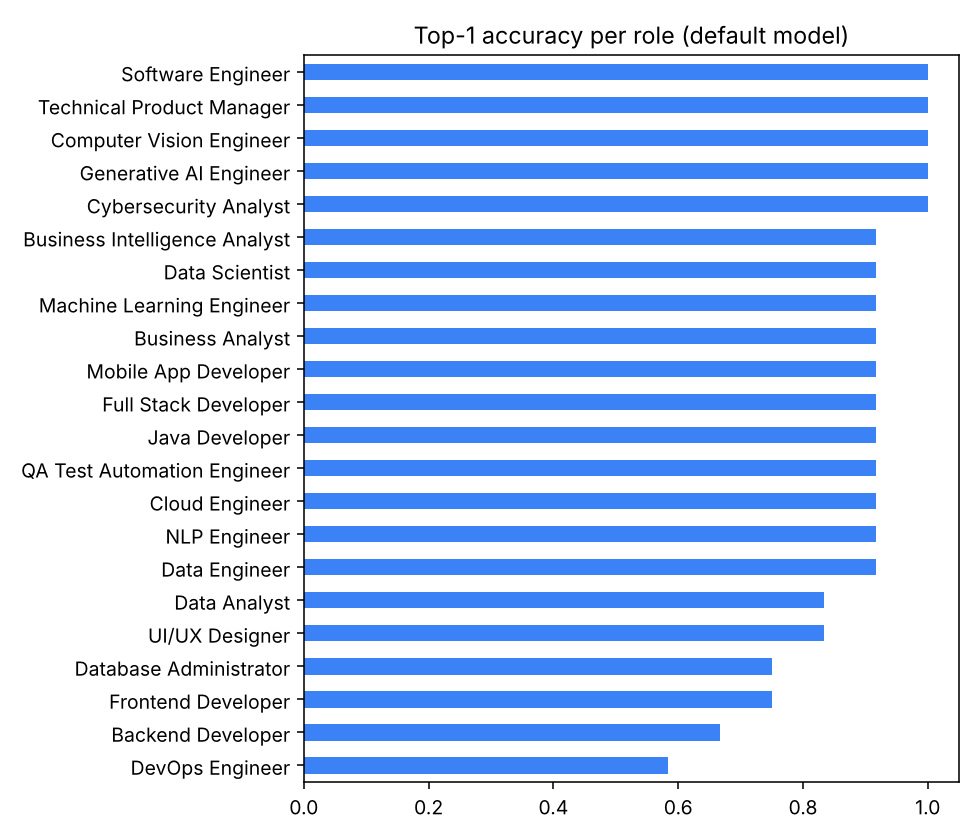
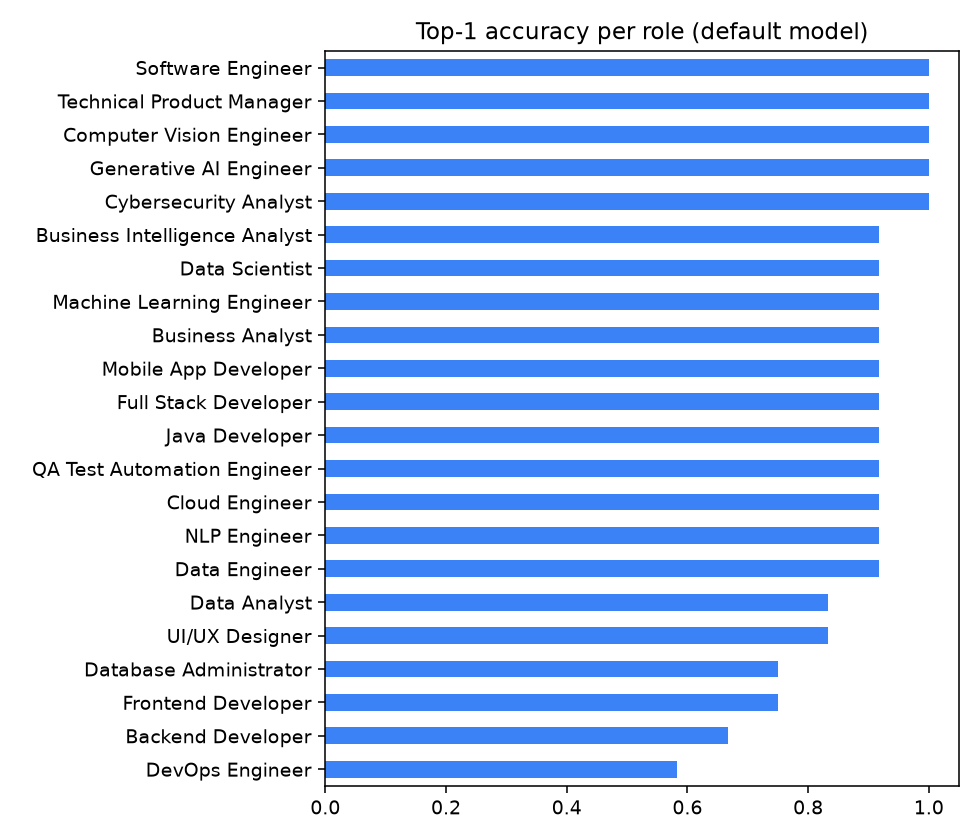
Fix Gemini empty response

Changed region(s): [[0.0306, 0.031, 0.9796, 0.9905]]

diff --git a/src/llm_client.py b/src/llm_client.py
@@ -5,6 +5,7 @@ environment variables / a local .env file, never from code, and are never printe
 Transient failures (rate limits, timeouts, network, 5xx) are retried with exponential backoff.
 """
 import os
+import re
 import time
 
 from dotenv import load_dotenv
@@ -67,21 +68,43 @@ def _call_gemini(key, model, system, messages, max_tokens):
     from google.genai import types
     client = genai.Client(api_key=key)
     contents = [types.Content(role="user" if m["role"] == "user" else "model", parts=[types.Part(text=m["content"])]) for m in messages]
+    # Newer Gemini models "think" first, and thinking tokens count against the output limit. Without extra
+    # headroom a small limit can be used up entirely by thinking, leaving an empty answer.
     resp = client.models.generate_content(model=model, contents=contents,
-                                          config=types.GenerateContentConfig(system_instruction=system, max_output_tokens=max_tokens))
-    return resp.text or ""
+                                          config=types.GenerateContentConfig(system_instruction=system, max_output_tokens=max_tokens + 2048))
+    text = getattr(resp, "text", None)
+    if not text:
+        candidates = getattr(resp, "candidates", None) or []
+        reason = getattr(candidates[0], "finish_reason", None) if candidates else None
+        block = getattr(getattr(resp, "prompt_feedback", None), "block_reason", None)
+        raise LLMError(f"Gemini returned no text (finish reason: {reason or 'unknown'}{', blocked: ' + str(block) if block else ''}). "
+                       "Try again, or set LLM_MODEL to a different Gemini model.")
+    return text
 
 
 ADAPTERS = {"anthropic": _call_anthropic, "openai": _call_openai, "gemini": _call_gemini}
 PACKAGES = {"anthropic": "anthropic", "openai": "openai", "gemini": "google-genai"}
 
 
+def _detail(exc: Exception, key: str = "") -> str:
+    """Short error description with any API key removed."""
+    text = str(exc).replace("\n", " ")[:220]
+    if key:
+        text = text.replace(key, "***")
+    return re.sub(r"AIza[0-9A-Za-z_-]{10,}|sk-[0-9A-Za-z_-]{10,}", "***", text)
+
+
 def classify_error(exc: Exception) -> str:
-    """'auth' (never retry), 'retry' (transient) or 'fatal'."""
+    """'auth' (never retry), 'model' (wrong/retired model name), 'retry' (transient) or 'fatal'."""
     name = type(exc).__name__.lower()
     code = getattr(exc, "status_code", None) or getattr(exc, "code", None)
+    msg = str(exc).lower()
     if code in (401, 403) or any(k in name for k in ("authentication", "permissiondenied", "unauthenticated")):
         return "auth"
+    if code == 400 and ("api key" in msg or "api_key" in msg):          # Gemini reports a bad key as HTTP 400
+        return "auth"
+    if code == 404 or "not found" in msg or "no longer available" in msg or "deprecated" in msg:
+        return "model"
     if code in (429, 500, 502, 503, 504, 529) or any(k in name for k in ("ratelimit", "timeout", "connection", "unavailable", "overloaded", "internalserver", "servererror")):
         return "retry"
     return "fatal"
@@ -108,9 +131,12 @@ def ask(system: str, messages: list, max_tokens: int = 700) -> str:
             kind = classify_error(exc)
             if kind == "auth":
                 raise LLMError(f"Authentication failed for {prov}: please check your API key.") from None
+            if kind == "model":
+                raise LLMError(f"Model '{model}' was not found or has been retired. Set LLM_MODEL in your .env file to a current model name "
+                               f"from the {prov} model list. ({_detail(exc, key)})") from None
             if kind == "retry" and attempt < config.MAX_LLM_RETRIES:
                 time.sleep(2 ** attempt)               # 2 s, then 4 s
                 continue
             if kind == "retry":
-                raise LLMError(f"The {prov} service is unavailable or rate-limited. Please try again later.") from None
-            raise LLMError(f"The {prov} request failed ({type(exc).__name__}).") from None
+                raise LLMError(f"The {prov} service is unavailable or rate-limited (free plans have strict limits). Please wait a minute and try again. ({_detail(exc, key)})") from None
+            raise LLMError(f"The {prov} request failed: {type(exc).__name__}: {_detail(exc, key)}") from None

diff --git a/main.py b/main.py
@@ -19,7 +19,7 @@ from src.career_assistant import improve_resume, learning_roadmap, professional_
 from src.chatbot import run_chatbot
 from src.evaluation import run_evaluation
 from src.jd_matcher import match_resume_to_jd, read_jd_file, read_jd_terminal, skill_gap_report
-from src.llm_client import llm_status, provider
+from src.llm_client import LLMError, ask, llm_status, provider
 from src.pdf_parser import ResumeFileError, extract_text
 from src.privacy import ask_consent
 from src.recommender import build_model, format_recommendations, load_model, recommend
@@ -108,6 +108,7 @@ def build_parser() -> argparse.ArgumentParser:
     sub = parser.add_subparsers(dest="command", required=True)
     sub.add_parser("build-model", help="build and save the TF-IDF career recommendation model")
     sub.add_parser("evaluate", help="evaluate the recommender and skill extractor")
+    sub.add_parser("check-ai", help="test your AI provider, key and model settings")
     for name, h in [("analyze", "extract structured information from a resume PDF"), ("recommend", "recommend suitable career paths"),
                     ("match", "compare a resume with a job description"), ("improve", "AI resume improvement and guidance"),
                     ("chat", "interactive career guidance chatbot")]:
@@ -141,6 +142,14 @@ def main() -> None:
         build_model()
     elif args.command == "evaluate":
         run_evaluation()
+    elif args.command == "check-ai":
+        ok, message = llm_status()
+        print(message)
+        if ok:
+            try:
+                print("AI is working. Reply:", ask("Answer in one short sentence.", [{"role": "user", "content": "Say OK and name the model family you are."}], 60))
+            except LLMError as exc:
+                sys.exit(f"AI check failed: {exc}")
     elif args.command == "analyze":
         resume = load_resume(args.resume)
         print_analysis(resume)

diff --git a/tests/test_project.py b/tests/test_project.py
@@ -297,6 +297,16 @@ class LlmClientTests(unittest.TestCase):
         self.assertEqual(len(calls), 1)
         self.assertIn("API key", str(out)); self.assertNotIn("SECRET", str(out))
 
+    def test_gemini_style_bad_key_is_auth_error(self):
+        def bad(kw): raise _Err("API key not valid. Please pass a valid API key. AIzaSyFAKEKEYFAKEKEY12345", 400)
+        out, _ = self.run_ask(ENV, {"anthropic": fake_anthropic(bad)})
+        self.assertIn("check your API key", str(out)); self.assertNotIn("AIza", str(out))
+
+    def test_retired_model_gives_helpful_message_without_key(self):
+        def gone(kw): raise _Err("404 models/old-model is not found. key=sk-SECRET-123", 404)
+        out, sleep = self.run_ask(ENV, {"anthropic": fake_anthropic(gone)})
+        self.assertIn("LLM_MODEL", str(out)); self.assertNotIn("SECRET", str(out)); sleep.assert_not_called()
+
     def test_missing_key(self):
         out, _ = self.run_ask({**ENV, "ANTHROPIC_API_KEY": ""}, {})
         self.assertIn("No API key", str(out))

diff --git a/src/config.py b/src/config.py
@@ -26,7 +26,7 @@ PREFERRED_WEIGHT = 0.5
 
 # --- LLM -------------------------------------------------------------------
 KEY_VARS = {"anthropic": "ANTHROPIC_API_KEY", "openai": "OPENAI_API_KEY", "gemini": "GEMINI_API_KEY"}
-DEFAULT_MODELS = {"anthropic": "claude-sonnet-5-5", "openai": "gpt-4o-mini", "gemini": "gemini-2.0-flash"}
+DEFAULT_MODELS = {"anthropic": "claude-sonnet-5-5", "openai": "gpt-4o-mini", "gemini": "gemini-3.6-flash"}
 MAX_LLM_RETRIES = 3
 LLM_TIMEOUT_S = 40
 MAX_CONTEXT_CHARS = 6000      # resume text sent to an LLM is truncated to this length
